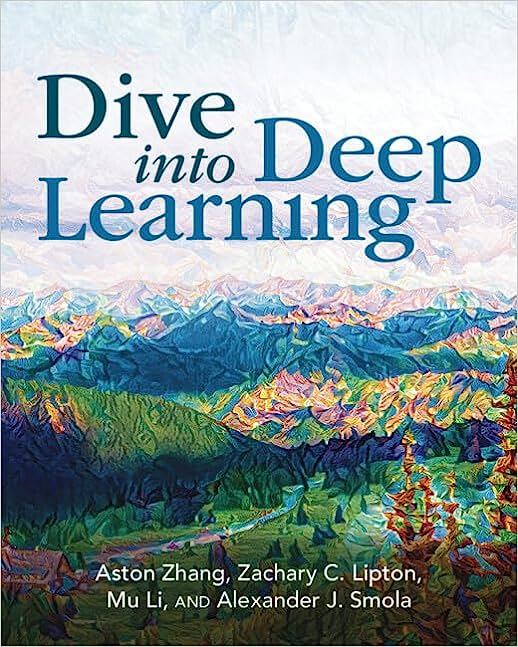
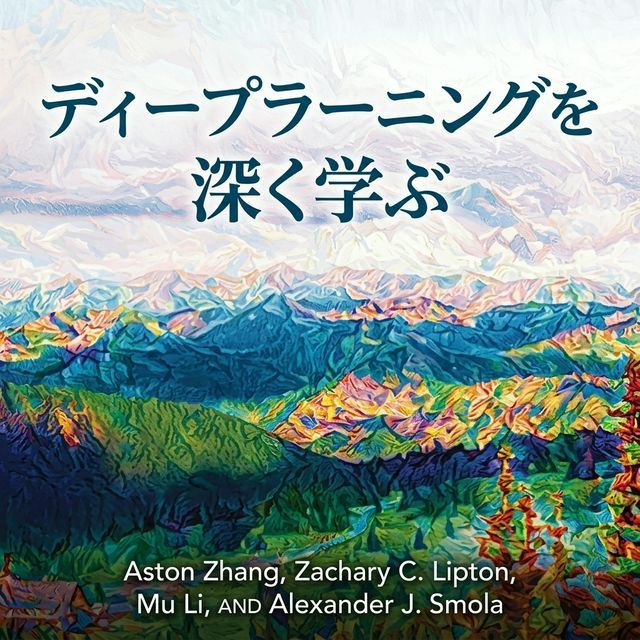
feat: translate frontpage to Japanese with new book cover
- Replaced book cover with Japanese title version
- Translated all frontpage sections: title, description, news, authors,
  features, community, textbook, and TOC
- Updated GitHub links to Narcolepsyy/d2l-jp repo

diff --git a/static/frontpage/frontpage.html b/static/frontpage/frontpage.html
@@ -198,11 +198,11 @@ a {
   <div class = "mdl-cell mdl-cell--1-col">
   </div>
   <div class = "mdl-cell mdl-cell--5-col mdl-cell--middle cover">
-    <h2>Dive into Deep Learning</h2>
-    <p><b>Interactive</b> deep learning book with code, math, and discussions <br><br>
-        Implemented with <b>PyTorch</b>, <b>NumPy/MXNet</b>, <b>JAX</b>, and <b>TensorFlow</b><br><br>
-        Adopted at 500 universities from 70 countries<br><br>
-        <a class="github-button" href="https://github.com/d2l-ai/d2l-en" data-icon="octicon-star" data-size="large" data-show-count="true" aria-label="Star d2l-ai/d2l-en on GitHub">Star</a>
+    <h2>ディープラーニングを深く学ぶ</h2>
+    <p>コード、数式、議論を通じた<b>インタラクティブ</b>な深層学習の教科書<br><br>
+        <b>PyTorch</b>、<b>NumPy/MXNet</b>、<b>JAX</b>、<b>TensorFlow</b> で実装<br><br>
+        70カ国以上、500大学で採用<br><br>
+        <a class="github-button" href="https://github.com/Narcolepsyy/d2l-jp" data-icon="octicon-star" data-size="large" data-show-count="true" aria-label="Star Narcolepsyy/d2l-jp on GitHub">Star</a>
     </p>
   </div>
 </div>
@@ -214,37 +214,16 @@ a {
     </div>
     <div align="left">
     <ul>
-      <li>[Feb 2023]
-        The book is forthcoming on Cambridge University Press (<a href="https://www.amazon.com/Dive-into-Learning-Aston-Zhang/dp/1009389432/">order</a>).
-        The Chinese version is the <a href="https://raw.githubusercontent.com/d2l-ai/d2l-zh/master/static/frontpage/_images/sales/jd-2023020304-all-ai-zh-4.png">best seller</a> at the largest Chinese online bookstore.
-        Follow D2L's <a href="https://github.com/d2l-ai/d2l-en">open-source project</a> for the latest updates.
+      <li>[2025年3月] 本書の<b>日本語翻訳版</b>が公開されました！
+        原著の最新版に基づき、全章を日本語で読むことができます。
+        <a href="https://github.com/Narcolepsyy/d2l-jp">オープンソースプロジェクト</a>の最新情報をフォローしてください。
       </li>
-        <li> [Dec 2022] JAX implementation is available! New topics of <a href="chapter_reinforcement-learning/index.html">reinforcement learning</a>,
-          <a href="chapter_gaussian-processes/index.html">Gaussian processes</a>, and
-          <a href="chapter_hyperparameter-optimization/index.html">hyperparameter optimization</a> are added!
-        <li> [Jul 2022] Check out our <a href="chapter_linear-regression/oo-design.html">new API</a>
-            for implementation
-            and new topics like
-            generalization in <a href="chapter_linear-classification/generalization-classification.html">classification</a> and
-            <a href="chapter_multilayer-perceptrons/generalization-deep.html">deep learning</a>,
-            <a href="chapter_convolutional-modern/resnet.html">ResNeXt</a>,
-            <a href="chapter_convolutional-modern/cnn-design.html">CNN design space</a>, and
-            transformers for <a href="chapter_attention-mechanisms-and-transformers/vision-transformer.html">vision</a>
-            and <a href="chapter_attention-mechanisms-and-transformers/large-pretraining-transformers.html">large-scale pretraining</a>. 
+      <li>[2023年2月] 原著がCambridge University Pressから出版されます（<a href="https://www.amazon.com/Dive-into-Learning-Aston-Zhang/dp/1009389432/">注文</a>）。
       </li>
-      <li> [May 2022] Join <a href="https://github.com/d2l-ai">us</a> to improve ongoing translations
-          in <a href="https://pt.d2l.ai/">Portuguese</a>,
-          <a href="https://tr.d2l.ai/">Turkish</a>,
-          <a href="https://d2l.aivivn.com/">Vietnamese</a>,
-          <a href="https://ko.d2l.ai/">Korean</a>,
-          and <a href="https://ja.d2l.ai/">Japanese</a>.</li>
-      <li> [Dec 2021] We added a new option to <a href="#jupyter">run this book</a> for free: check out <a href="https://studiolab.sagemaker.aws/import/github/d2l-ai/d2l-pytorch-sagemaker-studio-lab/blob/main/GettingStarted-D2L.ipynb">SageMaker Studio Lab</a>.
+      <li>[2022年12月] JAX実装が利用可能に！<a href="chapter_reinforcement-learning/index.html">強化学習</a>、
+          <a href="chapter_gaussian-processes/index.html">ガウス過程</a>、
+          <a href="chapter_hyperparameter-optimization/index.html">ハイパーパラメータ最適化</a>の新トピックが追加されました。
       </li>
-      </li>
-    <li>[May 2021]
-      Slides, Jupyter notebooks, assignments, and videos of the Berkeley course can be found at the
-      <a href="https://courses.d2l.ai/berkeley-stat-157/syllabus.html">syllabus page</a>.
-    </li>
     </ul>
     </div>
   </div>
@@ -252,7 +231,7 @@ a {
 
 <div class = "authors mdl-grid" id = "author" >
   <div class = "author-group-title mdl-cell mdl-cell--12-col mdl-cell--top">
-  <h2>Authors</h2>
+  <h2>著者</h2>
   </div>
   <div class = "mdl-cell mdl-cell--3-col mdl-cell--top">
     <div class="author-item">
@@ -285,7 +264,7 @@ a {
   </div>
 
   <div class = "author-group-title mdl-cell mdl-cell--12-col mdl-cell--top">
-  <h2>Vol.2 Chapter Authors</h2>
+  <h2>Vol.2 章の著者</h2>
   </div>
 
   <div class = "mdl-cell mdl-cell--3-col mdl-cell--top">
@@ -383,7 +362,7 @@ a {
   </div>
 
   <div class = "author-group-title mdl-cell mdl-cell--12-col mdl-cell--top">
-    <h2>Framework Adaptation Authors</h2>
+    <h2>フレームワーク対応の著者</h2>
   </div>
   <div class = "mdl-cell mdl-cell--3-col mdl-cell--top">
     <div class="author-item">
@@ -400,22 +379,21 @@ a {
     </div>
   </div>
   <div class = "author-group-title mdl-cell mdl-cell--12-col mdl-cell--top">
-    <h3> We thank all the <a href="https://github.com/d2l-ai/d2l-en/graphs/contributors">community contributors</a><br>for making this open source book better for everyone.</h3>
-    <h4><a href="https://d2l.ai/chapter_appendix-tools-for-deep-learning/contributing.html">Contribute to the book</a></h4>
+    <h3>すべての<a href="https://github.com/d2l-ai/d2l-en/graphs/contributors">コミュニティ貢献者</a>に感謝いたします。<br>皆さんのおかげで、このオープンソースの書籍はより良いものになっています。</h3>
+    <h4><a href="https://github.com/Narcolepsyy/d2l-jp">翻訳に貢献する</a></h4>
       </div>
 </div>
 
 <div class = "features mdl-grid">
   <div id = "jupyter" class = "mdl-cell mdl-cell--5-col mdl-cell--middle">
     <div class="content">
-      <h2>Each section is an executable Jupyter notebook</h2>
-      <p>You can modify the code and tune hyperparameters to get instant
-      feedback to accumulate practical experiences in deep learning.</p>
+      <h2>各セクションは実行可能なJupyterノートブック</h2>
+      <p>コードを変更してハイパーパラメータを調整し、即座にフィードバックを得ることで、深層学習の実践的な経験を積むことができます。</p>
       <div class = "mdl-grid running">
         <div class="running-item">
           <a href="./chapter_installation/index.html">
             <img src="./_images/laptop_jupyter.png"/>
-            <p>Run<br>locally</p>
+            <p>ローカルで<br>実行</p>
         </div>
         <div class="running-item">
           <a href="https://studiolab.sagemaker.aws/import/github/d2l-ai/d2l-pytorch-sagemaker-studio-lab/blob/main/GettingStarted-D2L.ipynb">
@@ -444,10 +422,9 @@ a {
 </div>
 
 <div class = "features-2 mdl-grid">
-  <h2>Mathematics + Figures + Code </h2>
-  <p>We offer an interactive learning experience with mathematics, figures,
-  code, text, and discussions, where concepts and techniques are illustrated
-    and implemented with experiments on real data sets.
+  <h2>数式 + 図 + コード</h2>
+  <p>数式、図、コード、テキスト、議論を通じたインタラクティブな学習体験を提供します。
+  概念と技術は、実際のデータセットを用いた実験によって説明・実装されます。
   </p>
 
   <div class = "mdl-cell mdl-cell--4-col">
@@ -467,9 +444,9 @@ a {
   </div>
   <div class = "mdl-cell mdl-cell--5-col mdl-cell--middle">
     <div class="content">
-      <h2>Active <a href="https://discuss.d2l.ai/c/5">community</a> support</h2>
-      <p>You can discuss and learn with thousands of peers in the community
-        through the link provided in each section.
+      <h2>活発な<a href="https://discuss.d2l.ai/c/5">コミュニティ</a>サポート</h2>
+      <p>各セクションに用意されたリンクを通じて、
+        コミュニティの何千人もの仲間と議論し、学ぶことができます。
         </p>
     </div>
   </div>
@@ -477,7 +454,7 @@ a {
 
 <div class="features mdl-grid">
   <div id = "textbook" class = "mdl-cell mdl-cell--12-col">
-    <h2>D2L as a textbook or a reference book</h2>
+    <h2>教科書または参考書としてのD2L</h2>
     <!--How to make logoimg: Use GoFullPage extension to take screenshot of homepage with individual logos. Crop entire logo areas with several copies. On each copy, crop six non-overlapping rows of logos as logoimg files-->
 <!--beginning of logos-->
 <!--
@@ -1175,7 +1152,7 @@ a {
     <!--end of the map-->
 
     <button class="collapsible">
-        <center>[+] <i>Click here to show the incomplete list. </i></center>
+        <center>[+] <i>クリックして採用大学一覧を表示</i></center>
     </button>
     <div class="expansion">
     <div class="institute mdl-grid">
@@ -1608,7 +1585,7 @@ a {
   </div>
 </div>
 
-<h2 class="toc"> Table of contents </h2>
+<h2 class="toc"> 目次 </h2>
 
 <script>
 var coll = document.getElementsByClassName("collapsible");
